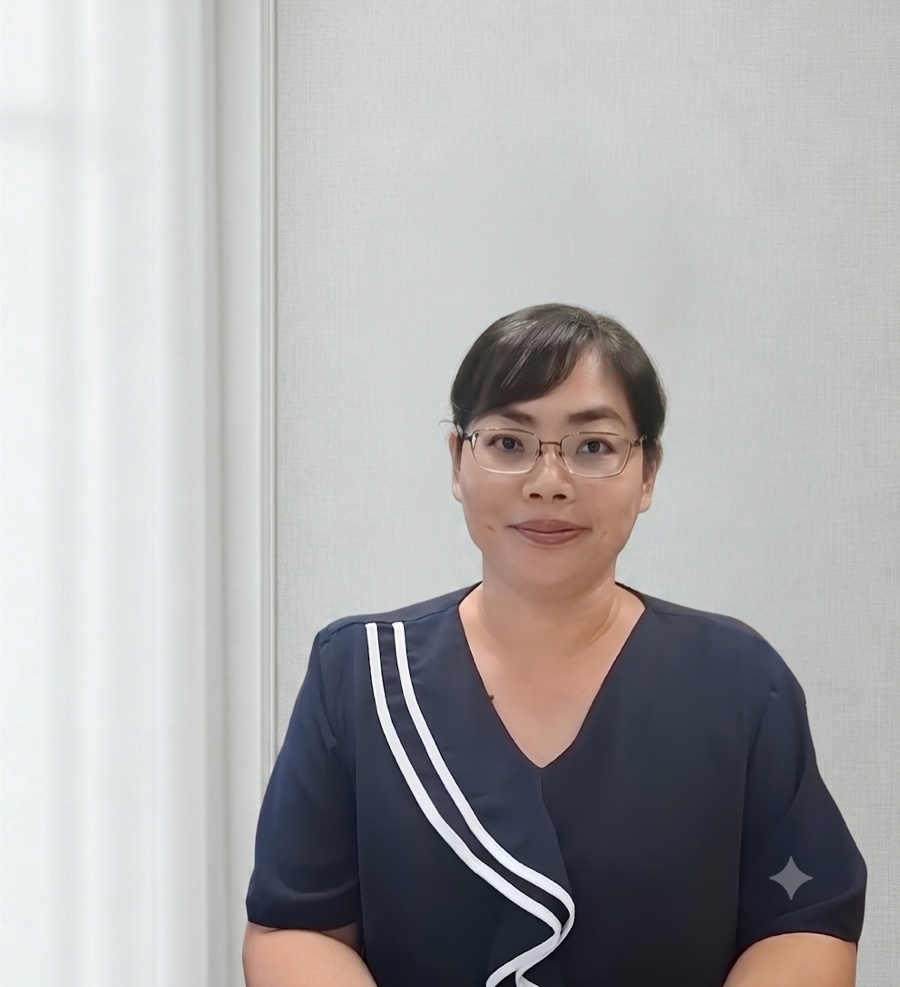
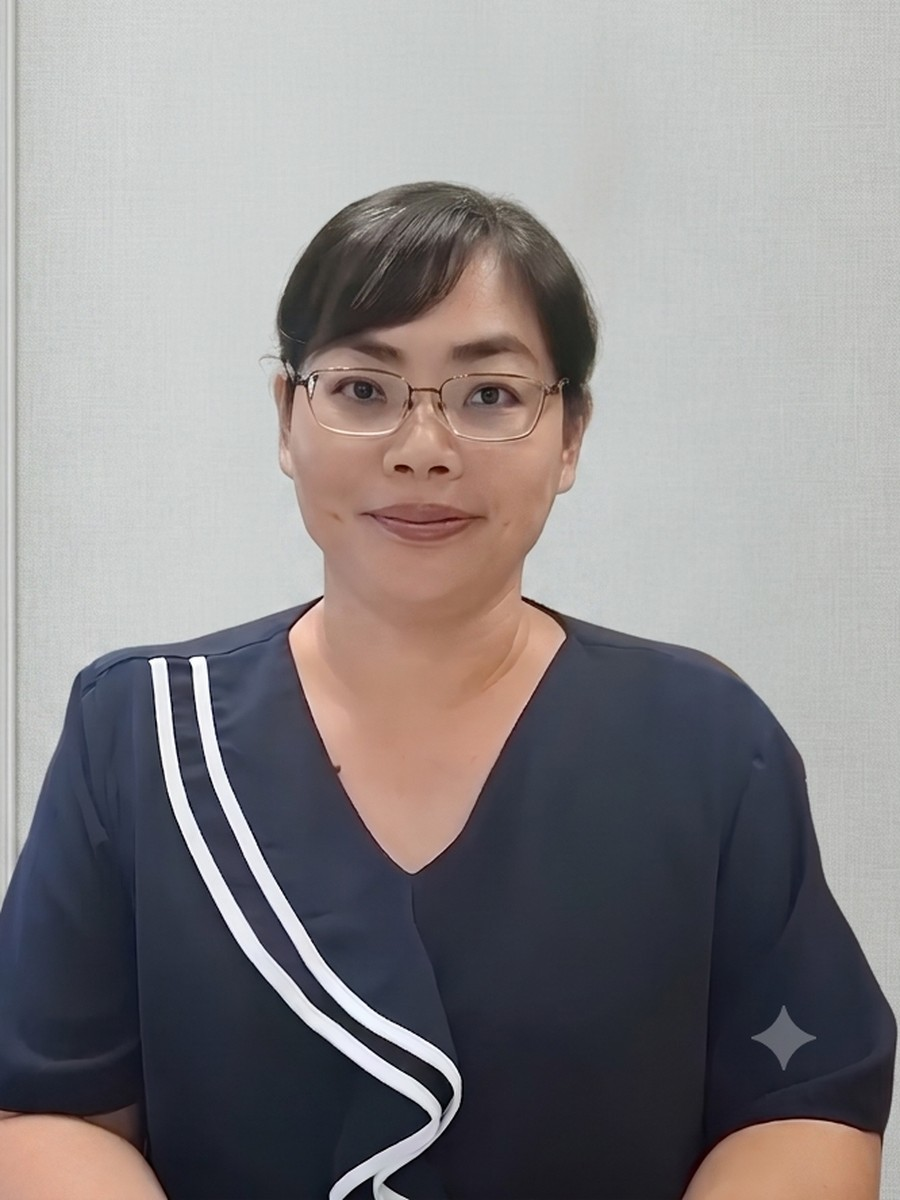
Use real photos in homepage Explore cards, fix principal portrait crop
Replaces the emoji covers on the Principal/Lessons/News Explore cards
with real photos (reading room, coastal field trip, taekwondo award).
Also re-crops the principal's portrait to remove excess headroom and
center her in frame — the original video-call screenshot had her
off-center with a lot of blank wall above.

diff --git a/schools/hsinyi/index.html b/schools/hsinyi/index.html
@@ -41,7 +41,7 @@
 <div class="g-photo"><img src="photos/campus-track.jpg" alt="Running track and field at Hsinyi 信義國中小田徑場" loading="lazy"><div class="g-cap">Track &amp; Field · 田徑場</div></div>
 </div></div></section>
 
-<section><div class="wrap"><div class="sec__no">VI.</div><h2 class="sec__title">Explore</h2><div class="sec__title-zh">探索本站</div><div class="sec__rule"></div><div class="cards three"><a class="lcard" href="/schools/hsinyi/principal/"><div class="cover">🎓</div><div class="body"><h3>Principal</h3><div class="zh">校長室</div><div class="meta">A message from Principal Wang</div></div></a><a class="lcard" href="/schools/hsinyi/lessons/"><div class="cover">📖</div><div class="body"><h3>Lessons</h3><div class="zh">課程 · 雙語教材</div><div class="meta">WOTD · Classroom English</div></div></a><a class="lcard" href="/schools/hsinyi/news/"><div class="cover">📰</div><div class="body"><h3>News</h3><div class="zh">新聞與榮譽</div><div class="meta">Campus stories &amp; achievements</div></div></a></div><div class="quote" style="margin-top:36px"><div class="quote__text">"Let every child learn to learn, learn to live — with courage, responsibility, and wisdom."</div><div class="quote__zh">讓孩子學會學習、學會生活——有勇氣、有擔當、有智慧。 — 信義辦學理念</div></div></div></section>
+<section><div class="wrap"><div class="sec__no">VI.</div><h2 class="sec__title">Explore</h2><div class="sec__title-zh">探索本站</div><div class="sec__rule"></div><div class="cards three"><a class="lcard" href="/schools/hsinyi/principal/"><div class="cover"><img src="photos/explore-principal.jpg" alt="Principal Wang Hsin-Yi with students holding books 王心怡校長與學生"></div><div class="body"><h3>Principal</h3><div class="zh">校長室</div><div class="meta">A message from Principal Wang</div></div></a><a class="lcard" href="/schools/hsinyi/lessons/"><div class="cover"><img src="photos/explore-lessons.jpg" alt="Hsinyi students on a coastal field trip 信義學生校外教學"></div><div class="body"><h3>Lessons</h3><div class="zh">課程 · 雙語教材</div><div class="meta">WOTD · Classroom English</div></div></a><a class="lcard" href="/schools/hsinyi/news/"><div class="cover"><img src="photos/explore-news.jpg" alt="Hsinyi students with a taekwondo competition award 信義學生跆拳道競賽獲獎"></div><div class="body"><h3>News</h3><div class="zh">新聞與榮譽</div><div class="meta">Campus stories &amp; achievements</div></div></a></div><div class="quote" style="margin-top:36px"><div class="quote__text">"Let every child learn to learn, learn to live — with courage, responsibility, and wisdom."</div><div class="quote__zh">讓孩子學會學習、學會生活——有勇氣、有擔當、有智慧。 — 信義辦學理念</div></div></div></section>
 
 <script>(function(){if(window.matchMedia&&matchMedia('(prefers-reduced-motion: reduce)').matches)return;var sel='.lcard,.nstory,.ocard,.factcard,.feature,.pillar,.topic,.office,.quote,.spotlight,.wday,.g-photo';var els=[].slice.call(document.querySelectorAll(sel));if(!els.length)return;els.forEach(function(el){el.classList.add('rvl');});if(!('IntersectionObserver'in window)){els.forEach(function(el){el.classList.add('in');});return;}var io=new IntersectionObserver(function(en){en.forEach(function(e){if(!e.isIntersecting)return;var sibs=[].slice.call(e.target.parentNode.children).filter(function(n){return n.classList.contains('rvl');});e.target.style.transitionDelay=(Math.max(0,sibs.indexOf(e.target))*70)+'ms';e.target.classList.add('in');setTimeout(function(){e.target.style.transitionDelay='';},800);io.unobserve(e.target);});},{threshold:0.08,rootMargin:'0px 0px -5% 0px'});els.forEach(function(el){io.observe(el);});})();</script>
 <footer class="ft"><div class="ft__inner"><div class="ft__brand"><span class="ft__logo">🌟</span><div><h4>Hsinyi Junior High &amp; Elementary School</h4><div class="zh">彰化縣立信義國民中小學</div><div class="ft__addr">50000 彰化縣彰化市向陽街 168 號<br>No. 168, Xiangyang St., Changhua City, Changhua<br>Tel · 電話：(04) 763-5888</div></div></div><div class="ft__col"><h5>This Site</h5><ul><li><a href="/schools/hsinyi/principal/">Principal · 校長室</a></li><li><a href="/schools/hsinyi/lessons/">Lessons · 課程</a></li><li><a href="/schools/hsinyi/news/">News · 新聞</a></li></ul></div><div class="ft__col"><h5>Connect</h5><div class="ft-ctas"><a class="cta-btn" href="https://hyjhes.chc.edu.tw/" target="_blank" rel="noopener"><span class="cta-btn__ico">🌐</span><span class="cta-btn__tx"><span class="cta-btn__t">Official Website</span><span class="cta-btn__zh">信義國中小官網</span></span><span class="cta-btn__arrow">↗</span></a><a class="cta-btn cta-btn--fb" href="https://www.facebook.com/chchyjhes/" target="_blank" rel="noopener"><span class="cta-btn__ico">f</span><span class="cta-btn__tx"><span class="cta-btn__t">Facebook</span><span class="cta-btn__zh">粉絲專頁 · 最新動態</span></span><span class="cta-btn__arrow">↗</span></a></div></div></div><div class="ft__bottom">Site by <a href="https://www.mycultureconnect.org/" target="_blank" rel="noopener">My Culture Connect</a> <a href="https://www.twrses.org/" target="_blank" rel="noopener">人師教育協會</a><br>Guided by <a href="https://www.cieetrc.chc.edu.tw/" target="_blank" rel="noopener">CIEETRC 彰化縣國際教育暨英語教育資源中心</a><br><a href="https://changhua-bilingual.org/" target="_blank" rel="noopener">Changhua Bilingual Hub 彰化雙語資源網</a></div></footer>

diff --git a/schools/hsinyi/style.css b/schools/hsinyi/style.css
@@ -124,7 +124,8 @@ section:last-of-type{border-bottom:none;}
 @media(min-width:680px){.cards{grid-template-columns:repeat(2,1fr);}}
 @media(min-width:980px){.cards.three{grid-template-columns:repeat(3,1fr);}}
 .lcard{display:flex;flex-direction:column;background:#fff;border:1px solid var(--line);border-top:8px solid var(--accent,var(--amber));border-radius:20px;overflow:hidden;box-shadow:var(--shadow-sm);color:inherit;}
-.lcard .cover{aspect-ratio:16/9;display:flex;align-items:center;justify-content:center;font-size:58px;color:#fff;background:linear-gradient(135deg,var(--accent,var(--royal)),rgba(0,0,0,.16));}
+.lcard .cover{aspect-ratio:16/9;display:flex;align-items:center;justify-content:center;font-size:58px;color:#fff;background:linear-gradient(135deg,var(--accent,var(--royal)),rgba(0,0,0,.16));overflow:hidden;}
+.lcard .cover img{width:100%;height:100%;object-fit:cover;display:block;}
 .lcard .body{padding:22px 24px 26px;}
 .lcard h3{font-family:'Playfair Display',serif;font-size:26px;color:var(--royal-deep);font-weight:700;line-height:1.15;}
 .lcard .zh{font-family:'PingFang TC',sans-serif;font-size:18px;color:var(--ink);font-weight:600;margin-top:5px;}
